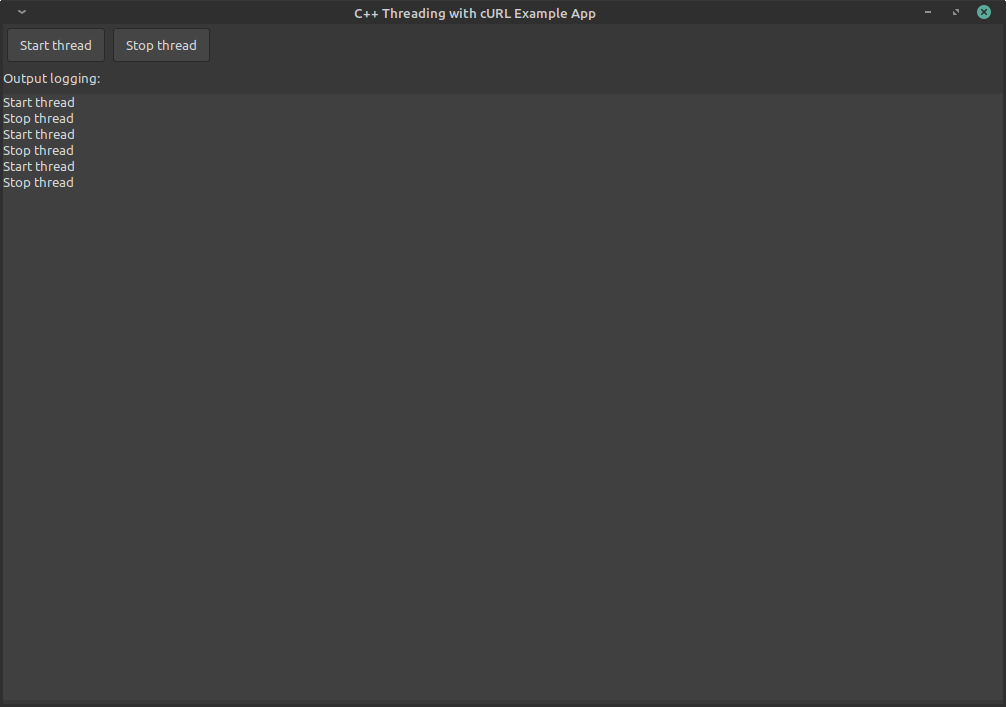
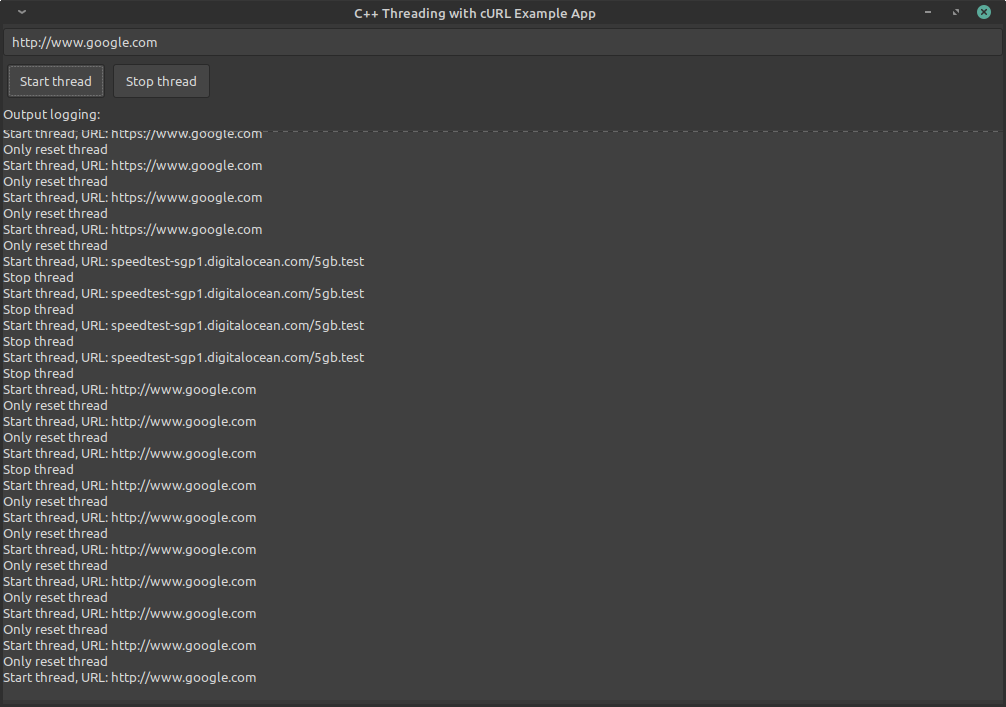
Improve readme + screen

Changed region(s): [[0.0, 0.0311, 0.3698, 0.9646]]

diff --git a/README.md b/README.md
@@ -1,6 +1,6 @@
-# GTK libcurl threading app
+# GTK libcurl multi-threading app
 
-GTK test application using threading and libCURL.
+GTK test application using C++ `std::thread` together with [libCURL](https://curl.se/libcurl/), using the [cURL Multi API](https://curl.se/libcurl/c/libcurl-multi.html).
 
 ![Screenshot](images/screenshot.png)
 
